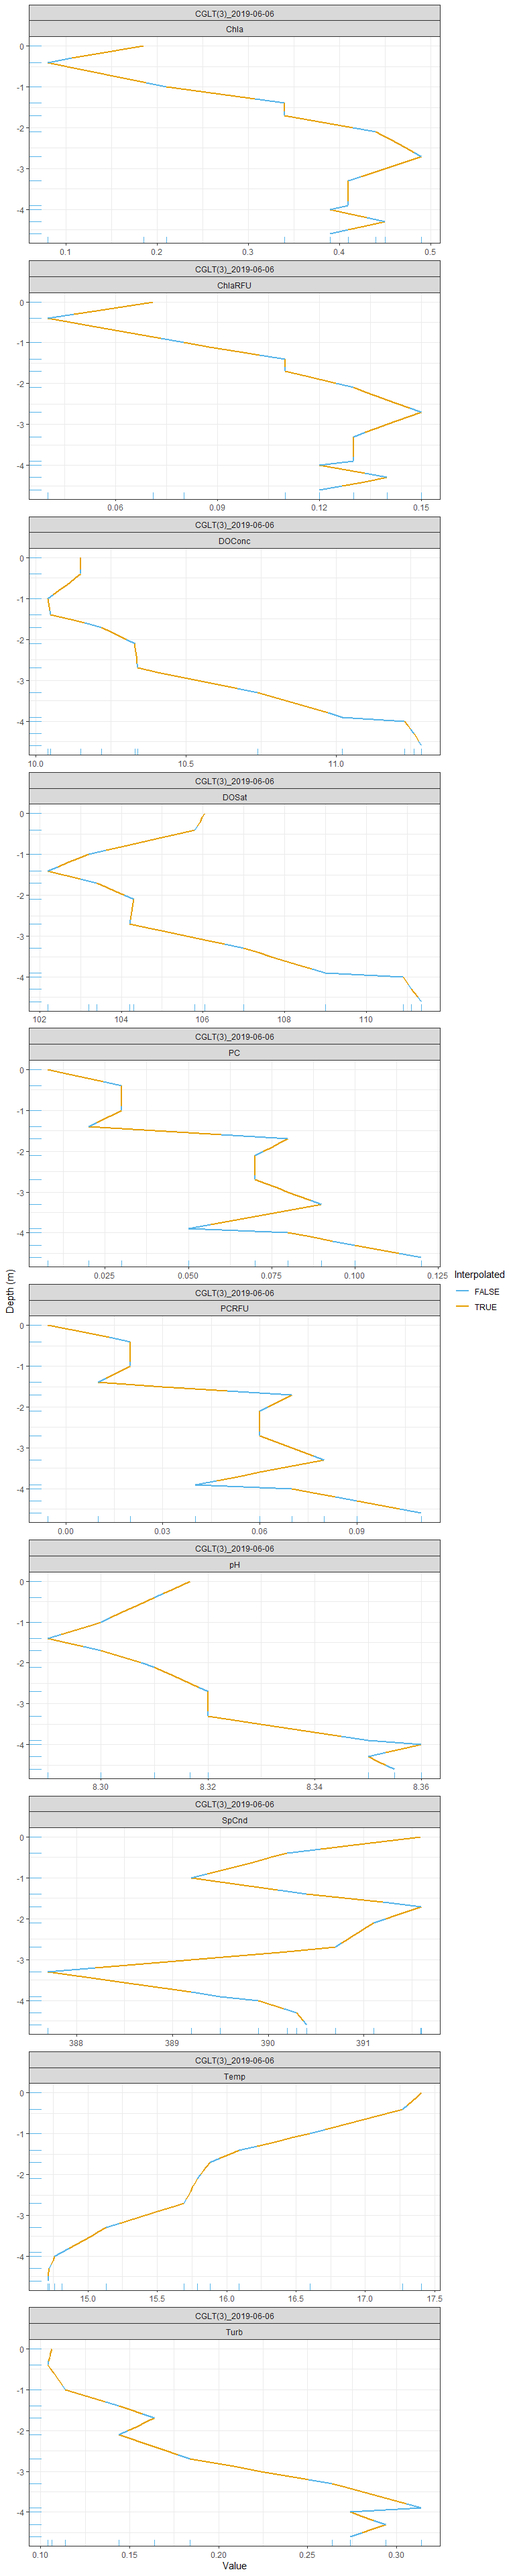
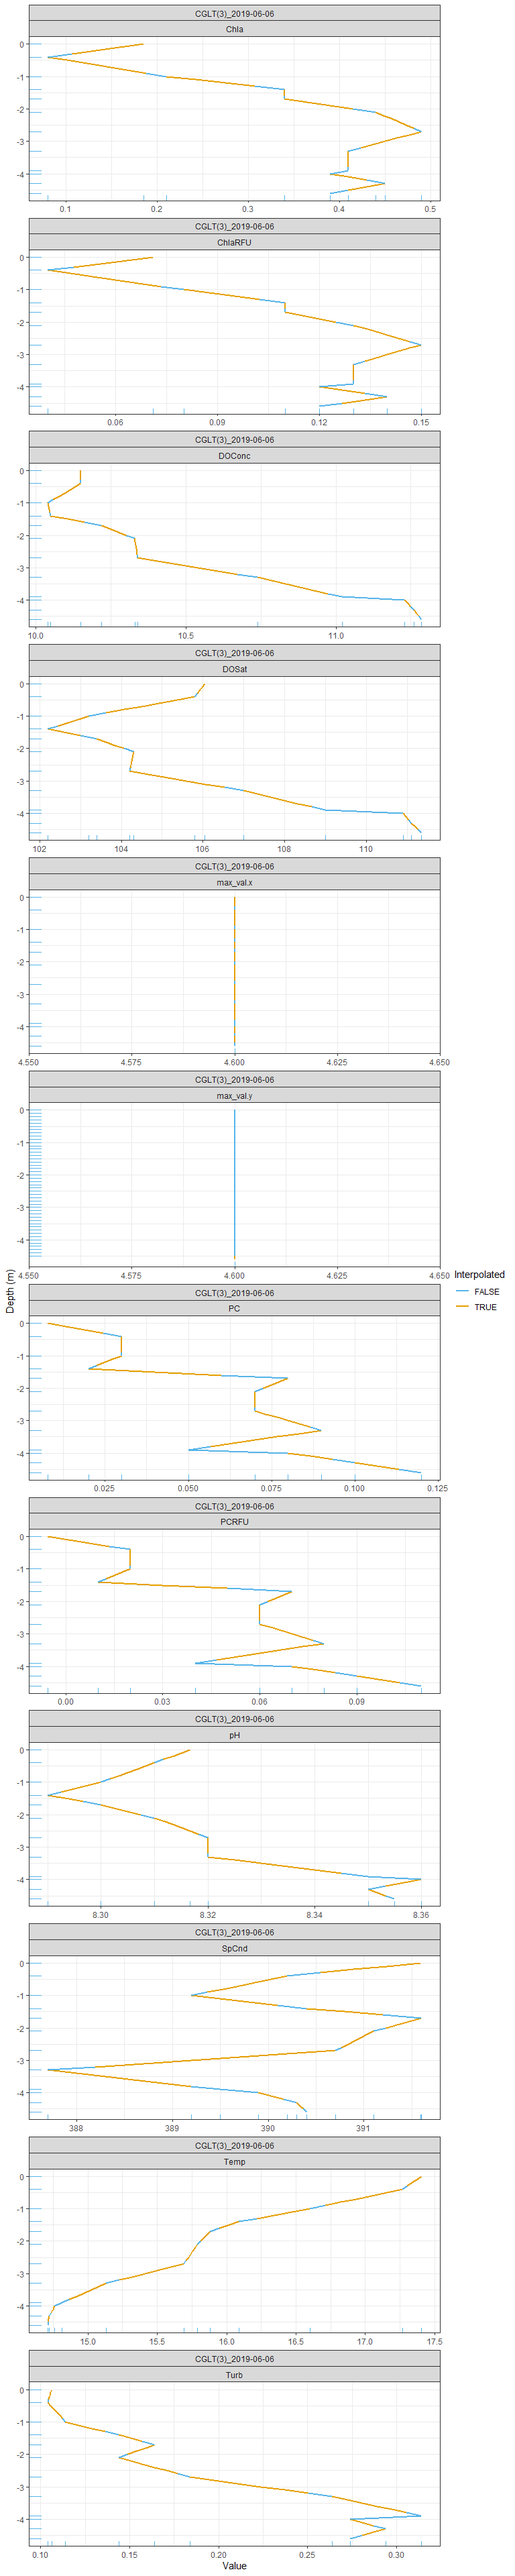
depth_complete should no longer produce duplicate depths.

diff --git a/README.md b/README.md
@@ -103,13 +103,29 @@ Standardized methods for wrangling data and creating plots.
 #' @export
 
 depth_complete <- function(.x, .depth, ...) {
-  .x %>% 
-  dplyr::group_by(...) %>% 
-  tidyr::complete({{.depth}} := seq(from = 0,
-                              to = max({{.depth}},
-                                       na.rm = TRUE),
-                              by = 0.1)) %>% 
+  dots <- rlang::enquos(...)
+
+  prep_df <- .x %>% 
+    # tidyr::unite(uid, !!!dots, remove = FALSE) %>%
+    dplyr::group_by(!!!dots) %>% 
+    dplyr::mutate(max_val = max({{.depth}}, na.rm = TRUE),
+                  {{.depth}} := as.character({{.depth}})) %>% 
     dplyr::ungroup()
+  
+  expand_df <- prep_df %>% 
+    tidyr::expand(nesting(!!!select(., !!!dots),
+                          max_val),
+                  {{.depth}} :=  full_seq(as.numeric({{.depth}}),
+                                          0.1)) %>% 
+    filter({{.depth}} <= max_val) %>% 
+    mutate({{.depth}} := as.character({{.depth}}))
+  
+  
+  final_df <- dplyr::full_join(prep_df, expand_df,
+                               #c(id, rlang::as_name({{.depth}}))) %>%
+                               by = purrr::map_chr(c(dots, rlang::enquo(.depth)),
+                                                     rlang::as_label)) %>%   
+    dplyr::mutate({{.depth}} := as.numeric({{.depth}}))
 }
 ```
 
@@ -387,7 +403,7 @@ chla_plot(.x = cdepth_df,
              .event = "CGLT(3)_2019-06-06")
 ```
 
-    ## Warning: Removed 138 rows containing missing values (geom_point).
+    ## Warning: Removed 126 rows containing missing values (geom_point).
 
 ![](README_files/figure-gfm/example-chla-plot1-1.png)<!-- -->
 
@@ -398,7 +414,7 @@ chla_plot(.x = cdepth_df,
              .event = "CGLT(1)_2019-06-06")
 ```
 
-    ## Warning: Removed 772 rows containing missing values (geom_point).
+    ## Warning: Removed 703 rows containing missing values (geom_point).
 
 ![](README_files/figure-gfm/example-chla-plot2-1.png)<!-- -->
 
@@ -491,7 +507,7 @@ chla_interp_plot(.x = interp_df,
                  .event = "CGLT(3)_2019-06-06")
 ```
 
-    ## Warning: Removed 99 rows containing missing values (geom_point).
+    ## Warning: Removed 91 rows containing missing values (geom_point).
 
 ![](README_files/figure-gfm/example-hybrid-plot1-1.png)<!-- -->
 
@@ -502,6 +518,6 @@ chla_interp_plot(.x = interp_df,
                  .event = "CGLT(1)_2019-06-06")
 ```
 
-    ## Warning: Removed 558 rows containing missing values (geom_point).
+    ## Warning: Removed 512 rows containing missing values (geom_point).
 
 ![](README_files/figure-gfm/example-hybrid-plot2-1.png)<!-- -->
